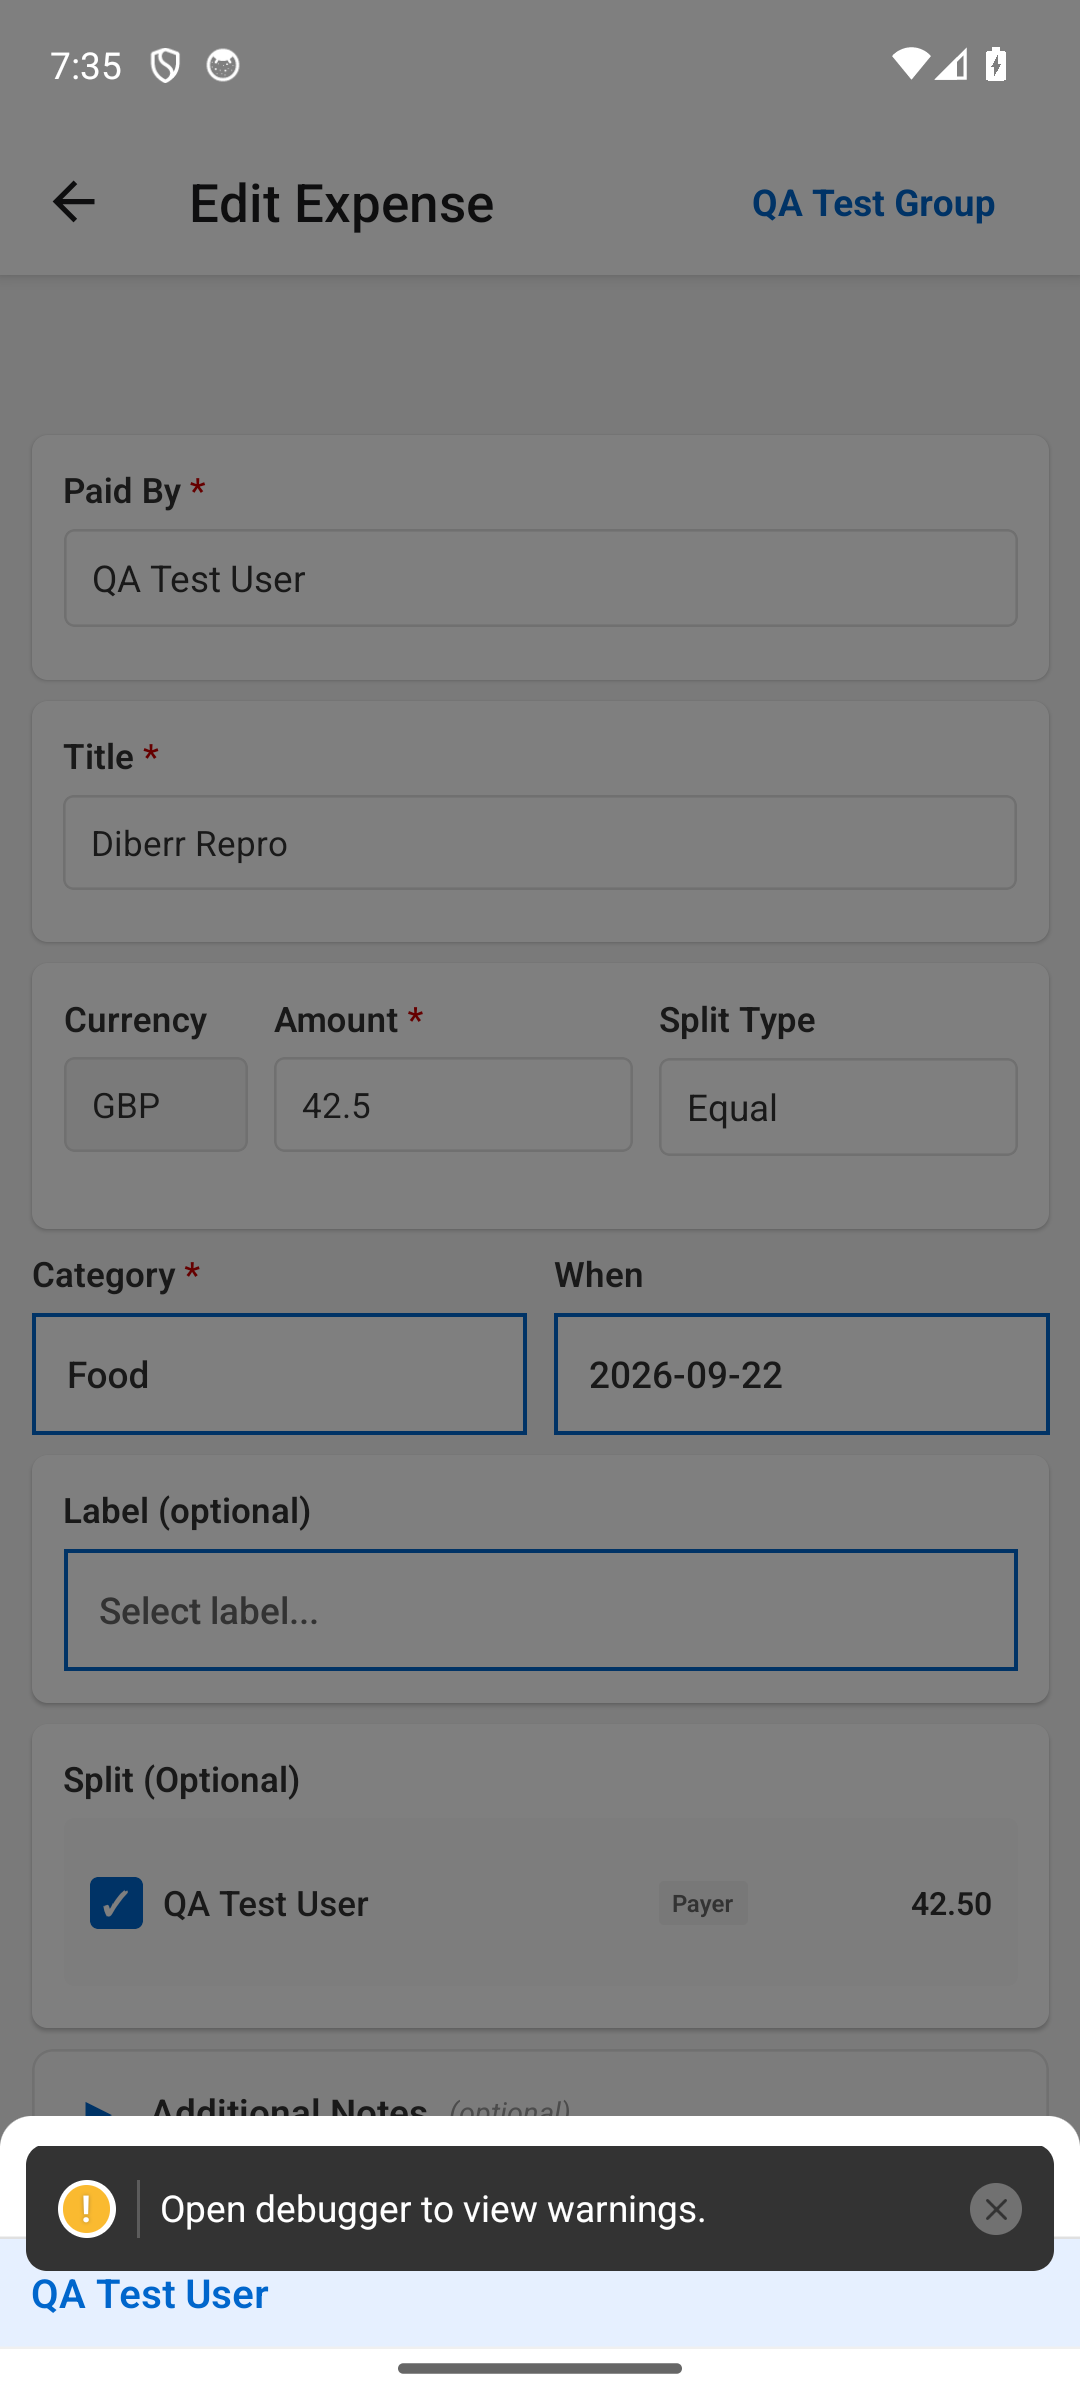
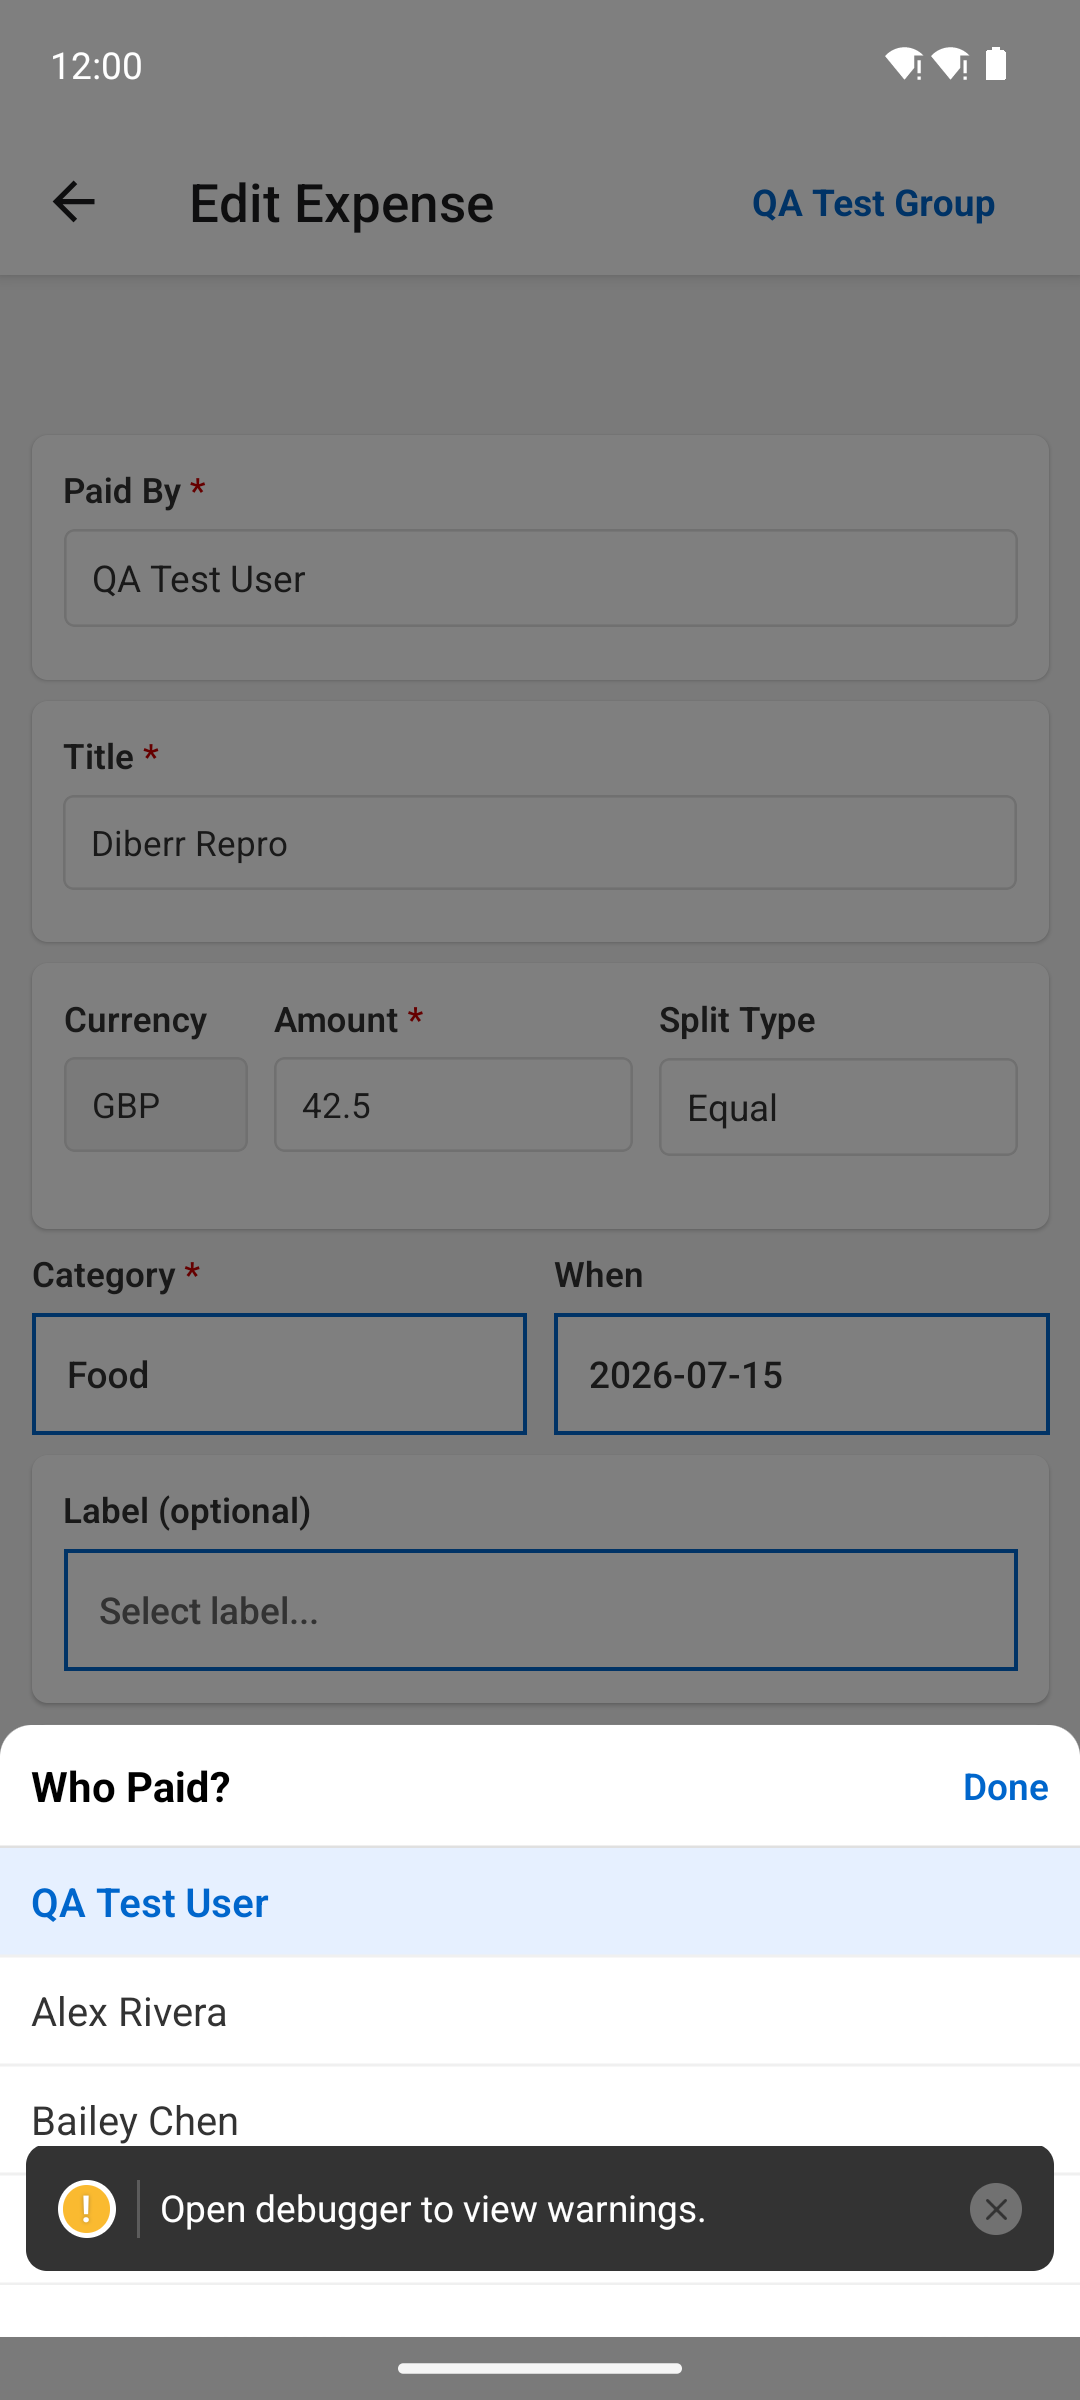
ci(e2e-mobile): fix ANR-blocked login, seed fixtures, regenerate visual baselines from CI, keep blocking (#85)
* ci(e2e-mobile): seed multi-member fixtures, fixed date, 3-button nav; raise timeouts

Run 36242232847 evidence: 7/9 flows failed. Baselines were recorded
against a 3-member group dated July 2026 (CI had 1 member, current date),
multi-member flow needs option-2, payer-picker flow needs the
e2e-paidby45-group fixture. Step timeout 18->30, job 25->40 since one
9-flow attempt takes ~6min.

* ci(e2e-mobile): add fixture members via POST /members (name+email)

Prior seed used a nonexistent flow (signup + by-email) and exited 22.

Regression-Exempt: CI workflow/fixture change only, no product code; no unit-testable behavior

* ci(e2e-mobile): drop global 3-button nav overlay

Run 36243515369: enabling it changed every screen vs the gesture-nav
baselines and the app rendered blank at launch (email-input not visible in
several flows). Only the #45 flow needs it; left for the owner.

Regression-Exempt: CI workflow change only, no product code

* ci(e2e-mobile): split blocking functional flows from non-blocking visual, per-flow retry, wait for login

Regression-Exempt: CI workflow change; structure asserted by issue-45-e2e-mobile-functional-visual-split.test.ts (workflow-structure test, not a red-before-green bug repro)

* ci(e2e-mobile): fix login-screen flow, add-expense scroll order, demo-mode status bar, always upload artifacts; update issue-83 test for split runner

* ci(e2e-mobile): fix invalid YAML in artifact step name
[…]

diff --git a/backend/src/__tests__/regression/issue-45-e2e-mobile-functional-visual-split.test.ts b/backend/src/__tests__/regression/issue-45-e2e-mobile-functional-visual-split.test.ts
@@ -1,0 +1,37 @@
+import { readFileSync } from 'fs';
+import { join } from 'path';
+
+const root: string = join(__dirname, '../../../..');
+const ciYaml: string = readFileSync(join(root, '.github/workflows/ci.yml'), 'utf8');
+const runner: string = readFileSync(join(root, 'scripts/run-maestro-ci.sh'), 'utf8');
+
+describe('e2e-mobile functional/visual split (PR #85)', () => {
+  it('should invoke the split runner instead of a whole-suite retry loop', () => {
+    expect(ciYaml).toContain('bash ../scripts/run-maestro-ci.sh');
+    expect(ciYaml).not.toContain('for i in 1 2 3; do maestro test');
+  });
+
+  it('should run each flow (including its assertScreenshot step) with per-flow retry', () => {
+    expect(runner).toMatch(/for attempt in/);
+    expect(runner).not.toContain("grep -v '^- assertScreenshot'");
+  });
+
+  it('should make the visual/assertScreenshot pass blocking on the job exit code', () => {
+    expect(runner).toMatch(/\[ "\$failed" -eq 0 \]\s*$/);
+    expect(runner).not.toMatch(/\|\|\s*true\s*$/m);
+  });
+
+  it('should document that visual baselines were regenerated from CI-emulator screenshots', () => {
+    expect(ciYaml).toContain('regenerated from real CI-emulator screenshots');
+  });
+
+  it('should bound the e2e-mobile timeouts to measured durations', () => {
+    expect(ciYaml).toContain('timeout-minutes: 35');
+    expect(ciYaml).not.toContain('timeout-minutes: 40');
+  });
+
+  it('should wait for the login screen instead of asserting immediately after launch', () => {
+    const flow: string = readFileSync(join(root, 'maestro-flows/visual/login-screen.yaml'), 'utf8');
+    expect(flow).toContain('extendedWaitUntil');
+  });
+});

diff --git a/backend/src/__tests__/regression/issue-83-e2e-mobile-suppress-anr-dialogs.test.ts b/backend/src/__tests__/regression/issue-83-e2e-mobile-suppress-anr-dialogs.test.ts
@@ -6,7 +6,7 @@ const ciYaml: string = readFileSync(join(__dirname, '../../../../.github/workflo
 describe('e2e-mobile emulator script (run 36048606424)', () => {
   it('should suppress ANR dialogs before Maestro runs so the launcher ANR cannot cover the login screen', () => {
     const suppress: number = ciYaml.indexOf('adb shell settings put global hide_error_dialogs 1');
-    const maestro: number = ciYaml.indexOf('maestro test ../maestro-flows/visual/');
+    const maestro: number = ciYaml.indexOf('bash ../scripts/run-maestro-ci.sh');
     expect(suppress).toBeGreaterThan(-1);
     expect(maestro).toBeGreaterThan(-1);
     expect(suppress).toBeLessThan(maestro);
